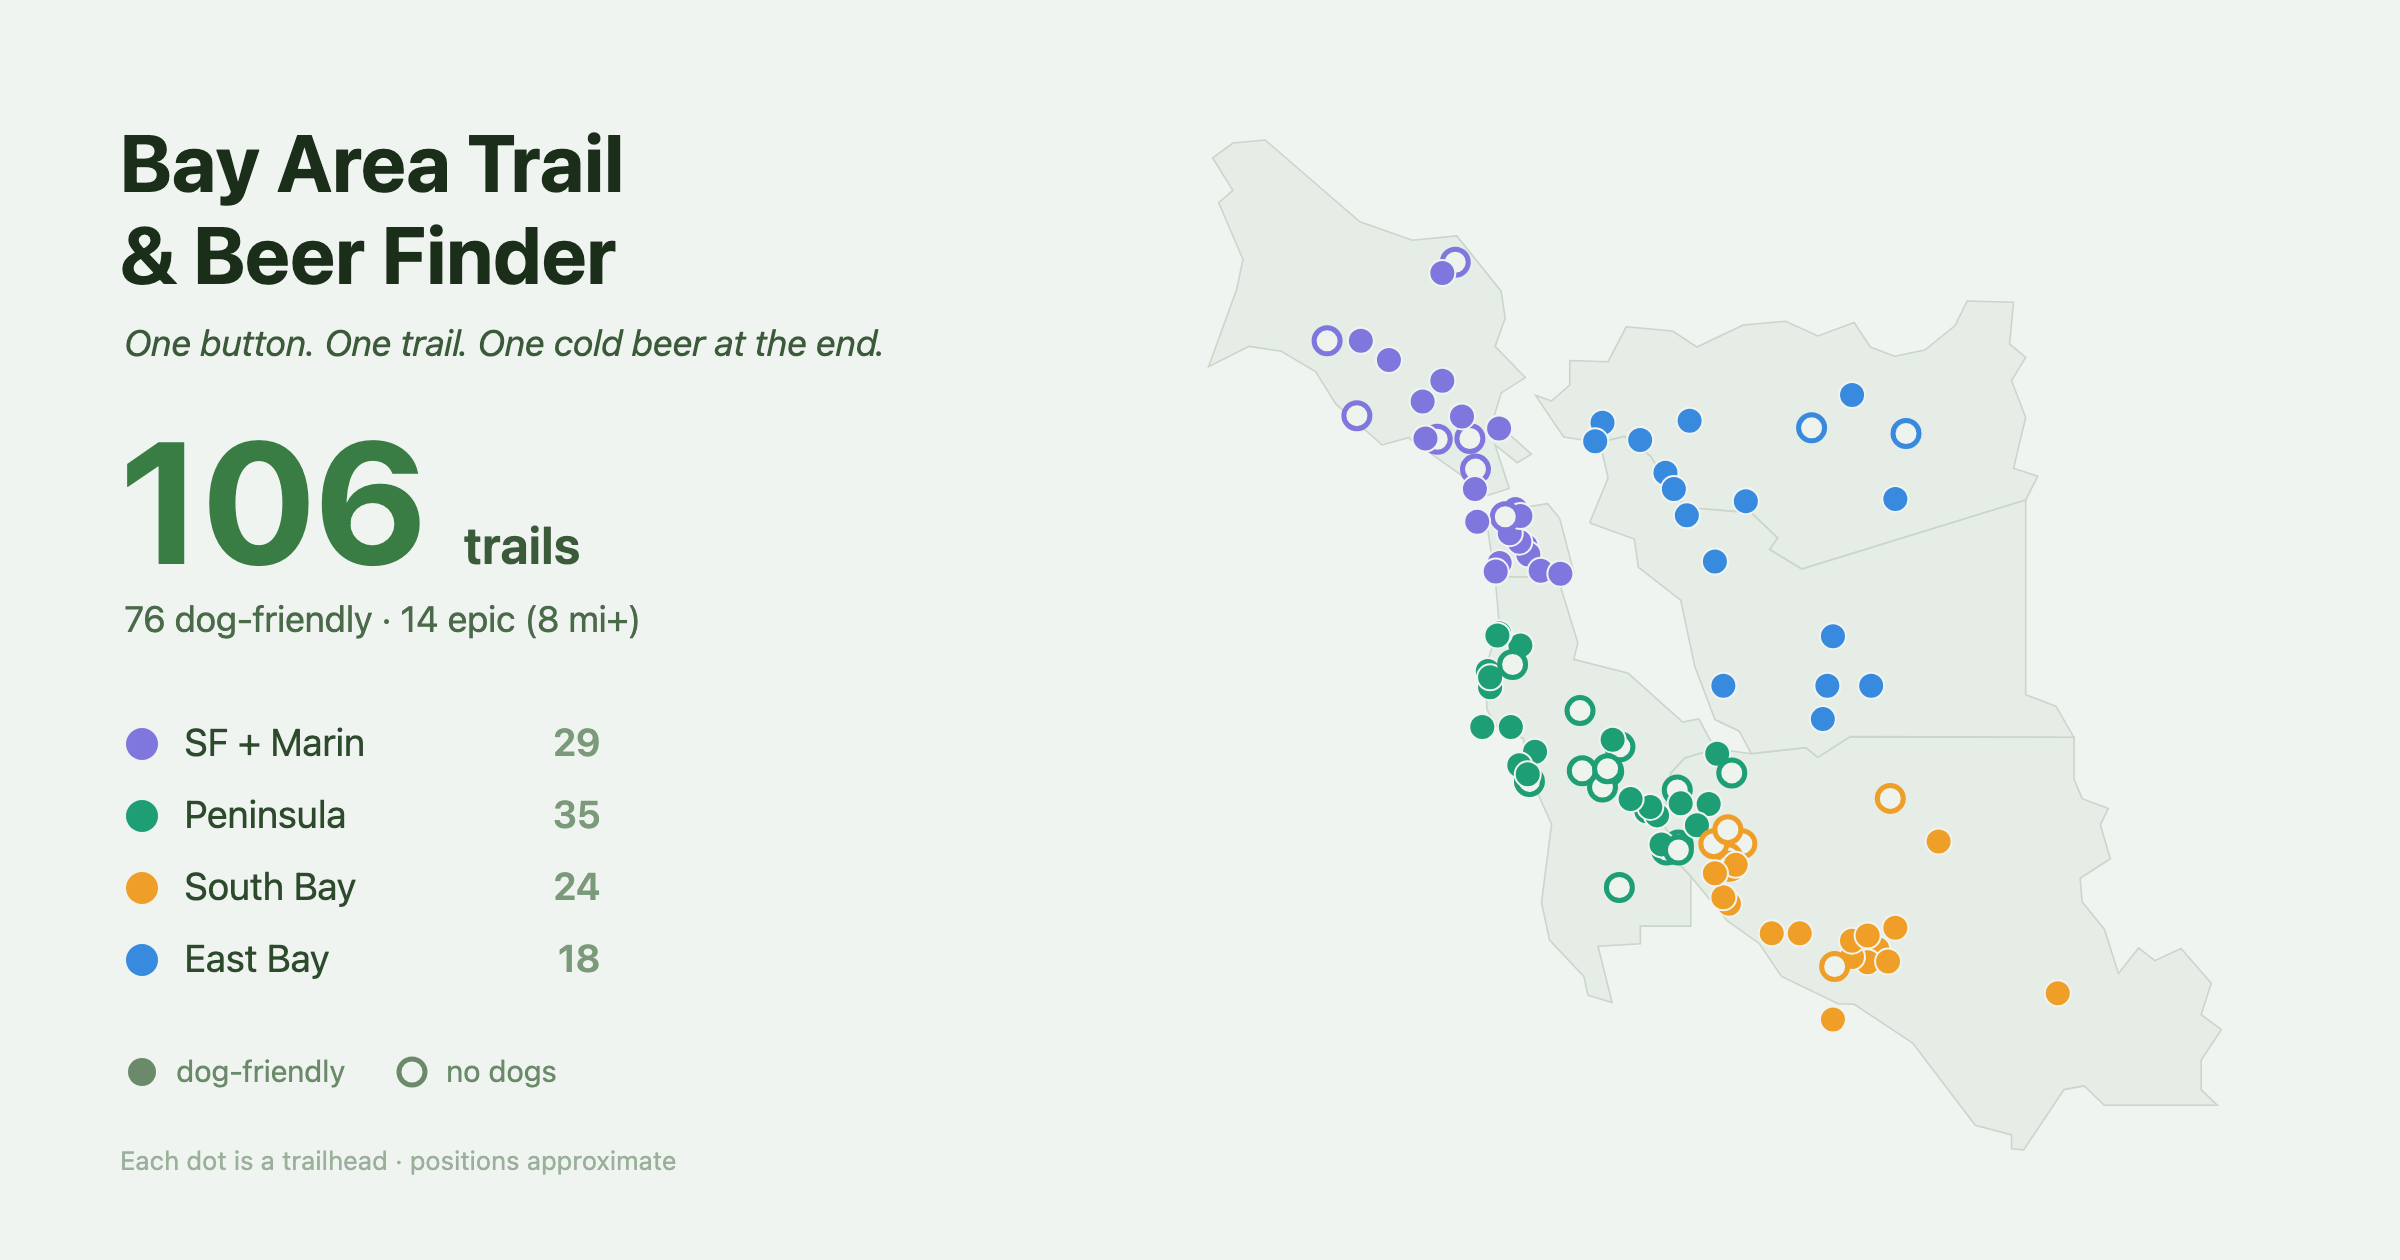
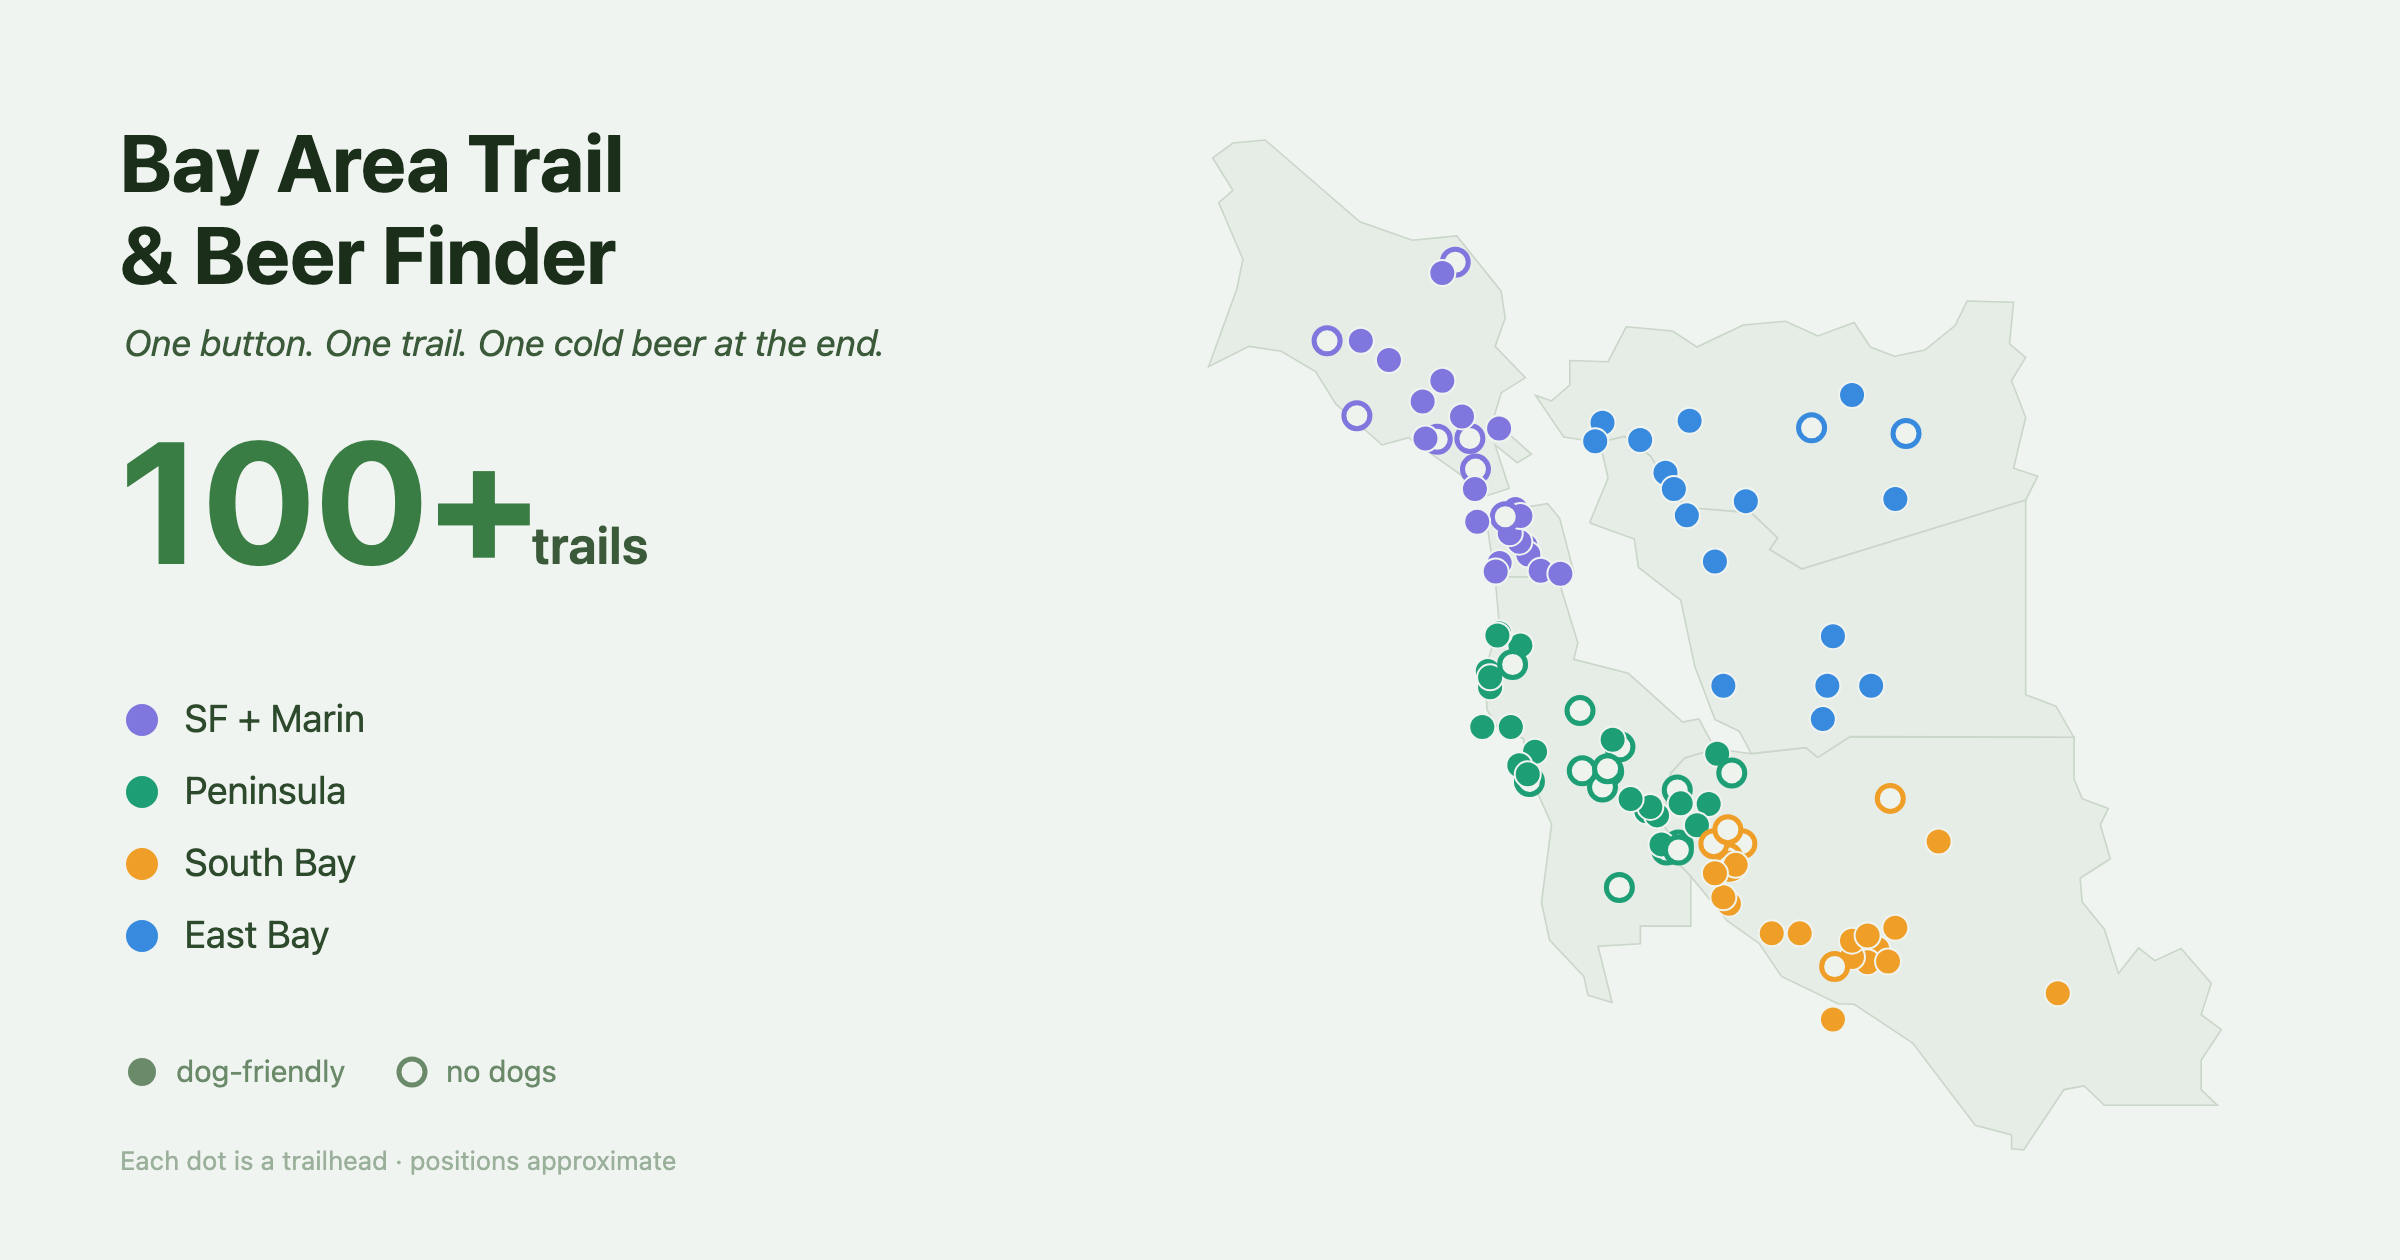
Make preview image evergreen: "100+" trails, drop counts
- 106 → 100+, removed the dog-friendly/epic stat line, removed per-region
  counts from the legend so the image never needs regenerating as the
  catalog grows

diff --git a/map-preview.html b/map-preview.html
@@ -15,15 +15,14 @@
   <text x="60" y="142" font-size="40" font-weight="700" fill="#1a2e1a">&amp; Beer Finder</text>
   <text x="62" y="178" font-size="18" font-style="italic" fill="#3a5a3a">One button. One trail. One cold beer at the end.</text>
 
-  <text x="60" y="282" font-size="86" font-weight="700" fill="#3a7d44">106</text>
-  <text x="232" y="282" font-size="26" font-weight="600" fill="#3a5a3a">trails</text>
-  <text x="62" y="316" font-size="18" fill="#4a6a4a">76 dog-friendly · 14 epic (8 mi+)</text>
+  <text x="60" y="282" font-size="86" font-weight="700" fill="#3a7d44">100+</text>
+  <text x="266" y="282" font-size="26" font-weight="600" fill="#3a5a3a">trails</text>
 
   <g font-size="19" fill="#2d4a2d">
-    <circle cx="71" cy="372" r="8" fill="#7F77DD"/><text x="92" y="378">SF + Marin</text><text x="300" y="378" text-anchor="end" fill="#7a9a7a" font-weight="600">29</text>
-    <circle cx="71" cy="408" r="8" fill="#1D9E75"/><text x="92" y="414">Peninsula</text><text x="300" y="414" text-anchor="end" fill="#7a9a7a" font-weight="600">35</text>
-    <circle cx="71" cy="444" r="8" fill="#EF9F27"/><text x="92" y="450">South Bay</text><text x="300" y="450" text-anchor="end" fill="#7a9a7a" font-weight="600">24</text>
-    <circle cx="71" cy="480" r="8" fill="#378ADD"/><text x="92" y="486">East Bay</text><text x="300" y="486" text-anchor="end" fill="#7a9a7a" font-weight="600">18</text>
+    <circle cx="71" cy="360" r="8" fill="#7F77DD"/><text x="92" y="366">SF + Marin</text>
+    <circle cx="71" cy="396" r="8" fill="#1D9E75"/><text x="92" y="402">Peninsula</text>
+    <circle cx="71" cy="432" r="8" fill="#EF9F27"/><text x="92" y="438">South Bay</text>
+    <circle cx="71" cy="468" r="8" fill="#378ADD"/><text x="92" y="474">East Bay</text>
   </g>
 
   <g font-size="15" fill="#6a8a6a">
